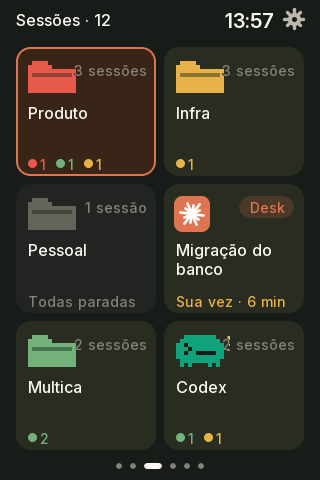
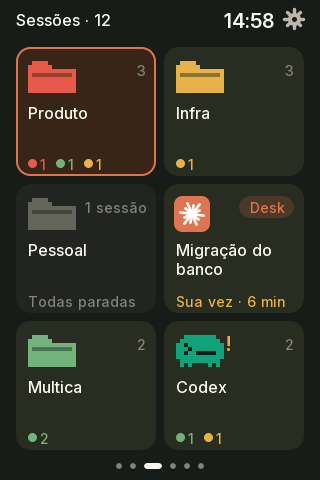
fix: workspace card shows only the count when the label does not fit
On narrow cards (the Guition upright), "3 sessões" ran over the folder icon. The card now shows just the
number when the label would overlap the icon. The Guition captures on the site and README are retaken.

diff --git a/firmware/src/ui/screens_tall.cpp b/firmware/src/ui/screens_tall.cpp
@@ -1009,6 +1009,8 @@ void drawWorkspacePage(bool live, int sp) {
     else if ((int)(w[6] | 0) == 2) mascot::draw(x + pad, y + (COMPACT() ? u(10) : u(14)), MASCOT_PX(), mood, bg, k, true);
     else folder(x + pad, y + (COMPACT() ? u(10) : u(14)), MASCOT_PX(), fc, bg);
     snprintf(buf, sizeof buf, total == 1 ? "1 sessão" : "%d sessões", total);
+    // cartão estreito (Guition em pé): "3 sessões" passaria por cima do ícone, então fica só o número
+    if (gfx::textWidth(buf, gfx::SMALL) > cw - u(10) - (pad + 12 * MASCOT_PX() + u(8))) snprintf(buf, sizeof buf, "%d", total);
     text(buf, x + cw - u(10), y + (COMPACT() ? u(10) : u(14)), gfx::SMALL, DIM, top_right, bg);
     const int maxW = cw - 2 * pad, t1 = y + TITLE_Y(), t2 = t1 + max(u(19), gfx::lineHeight(gfx::LABEL) - 1);
     String l2, name = wrap2(w[0] | "", gfx::LABEL, maxW, l2);
